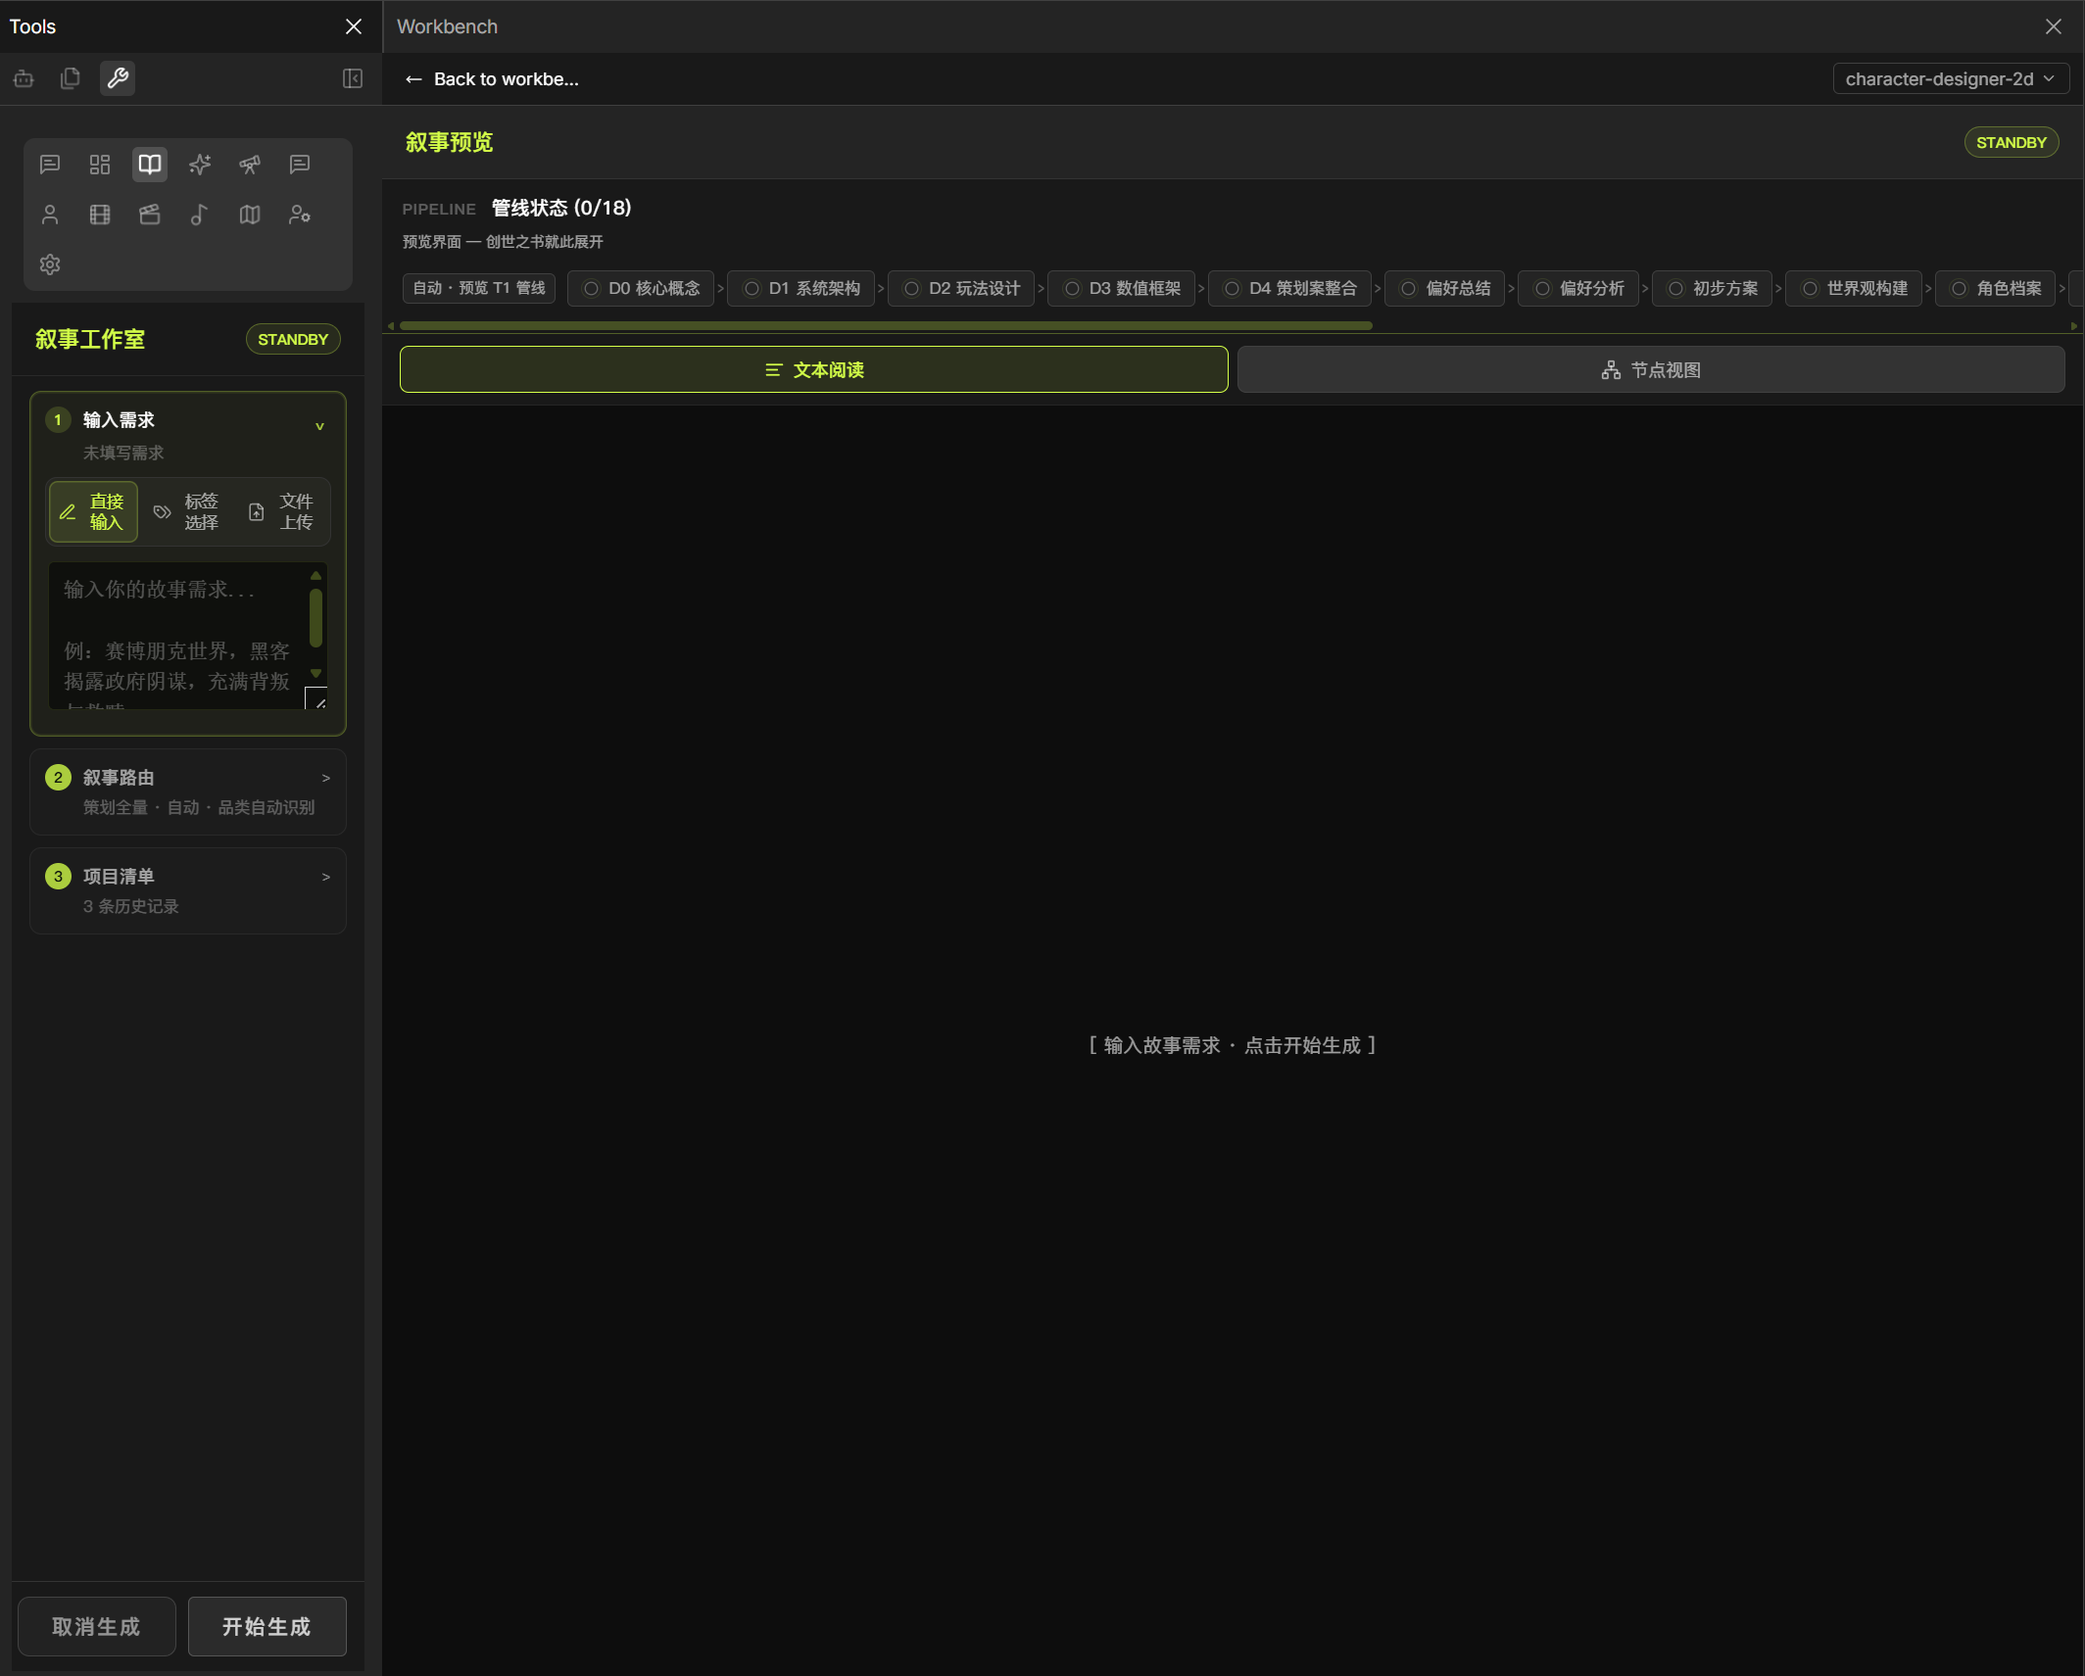
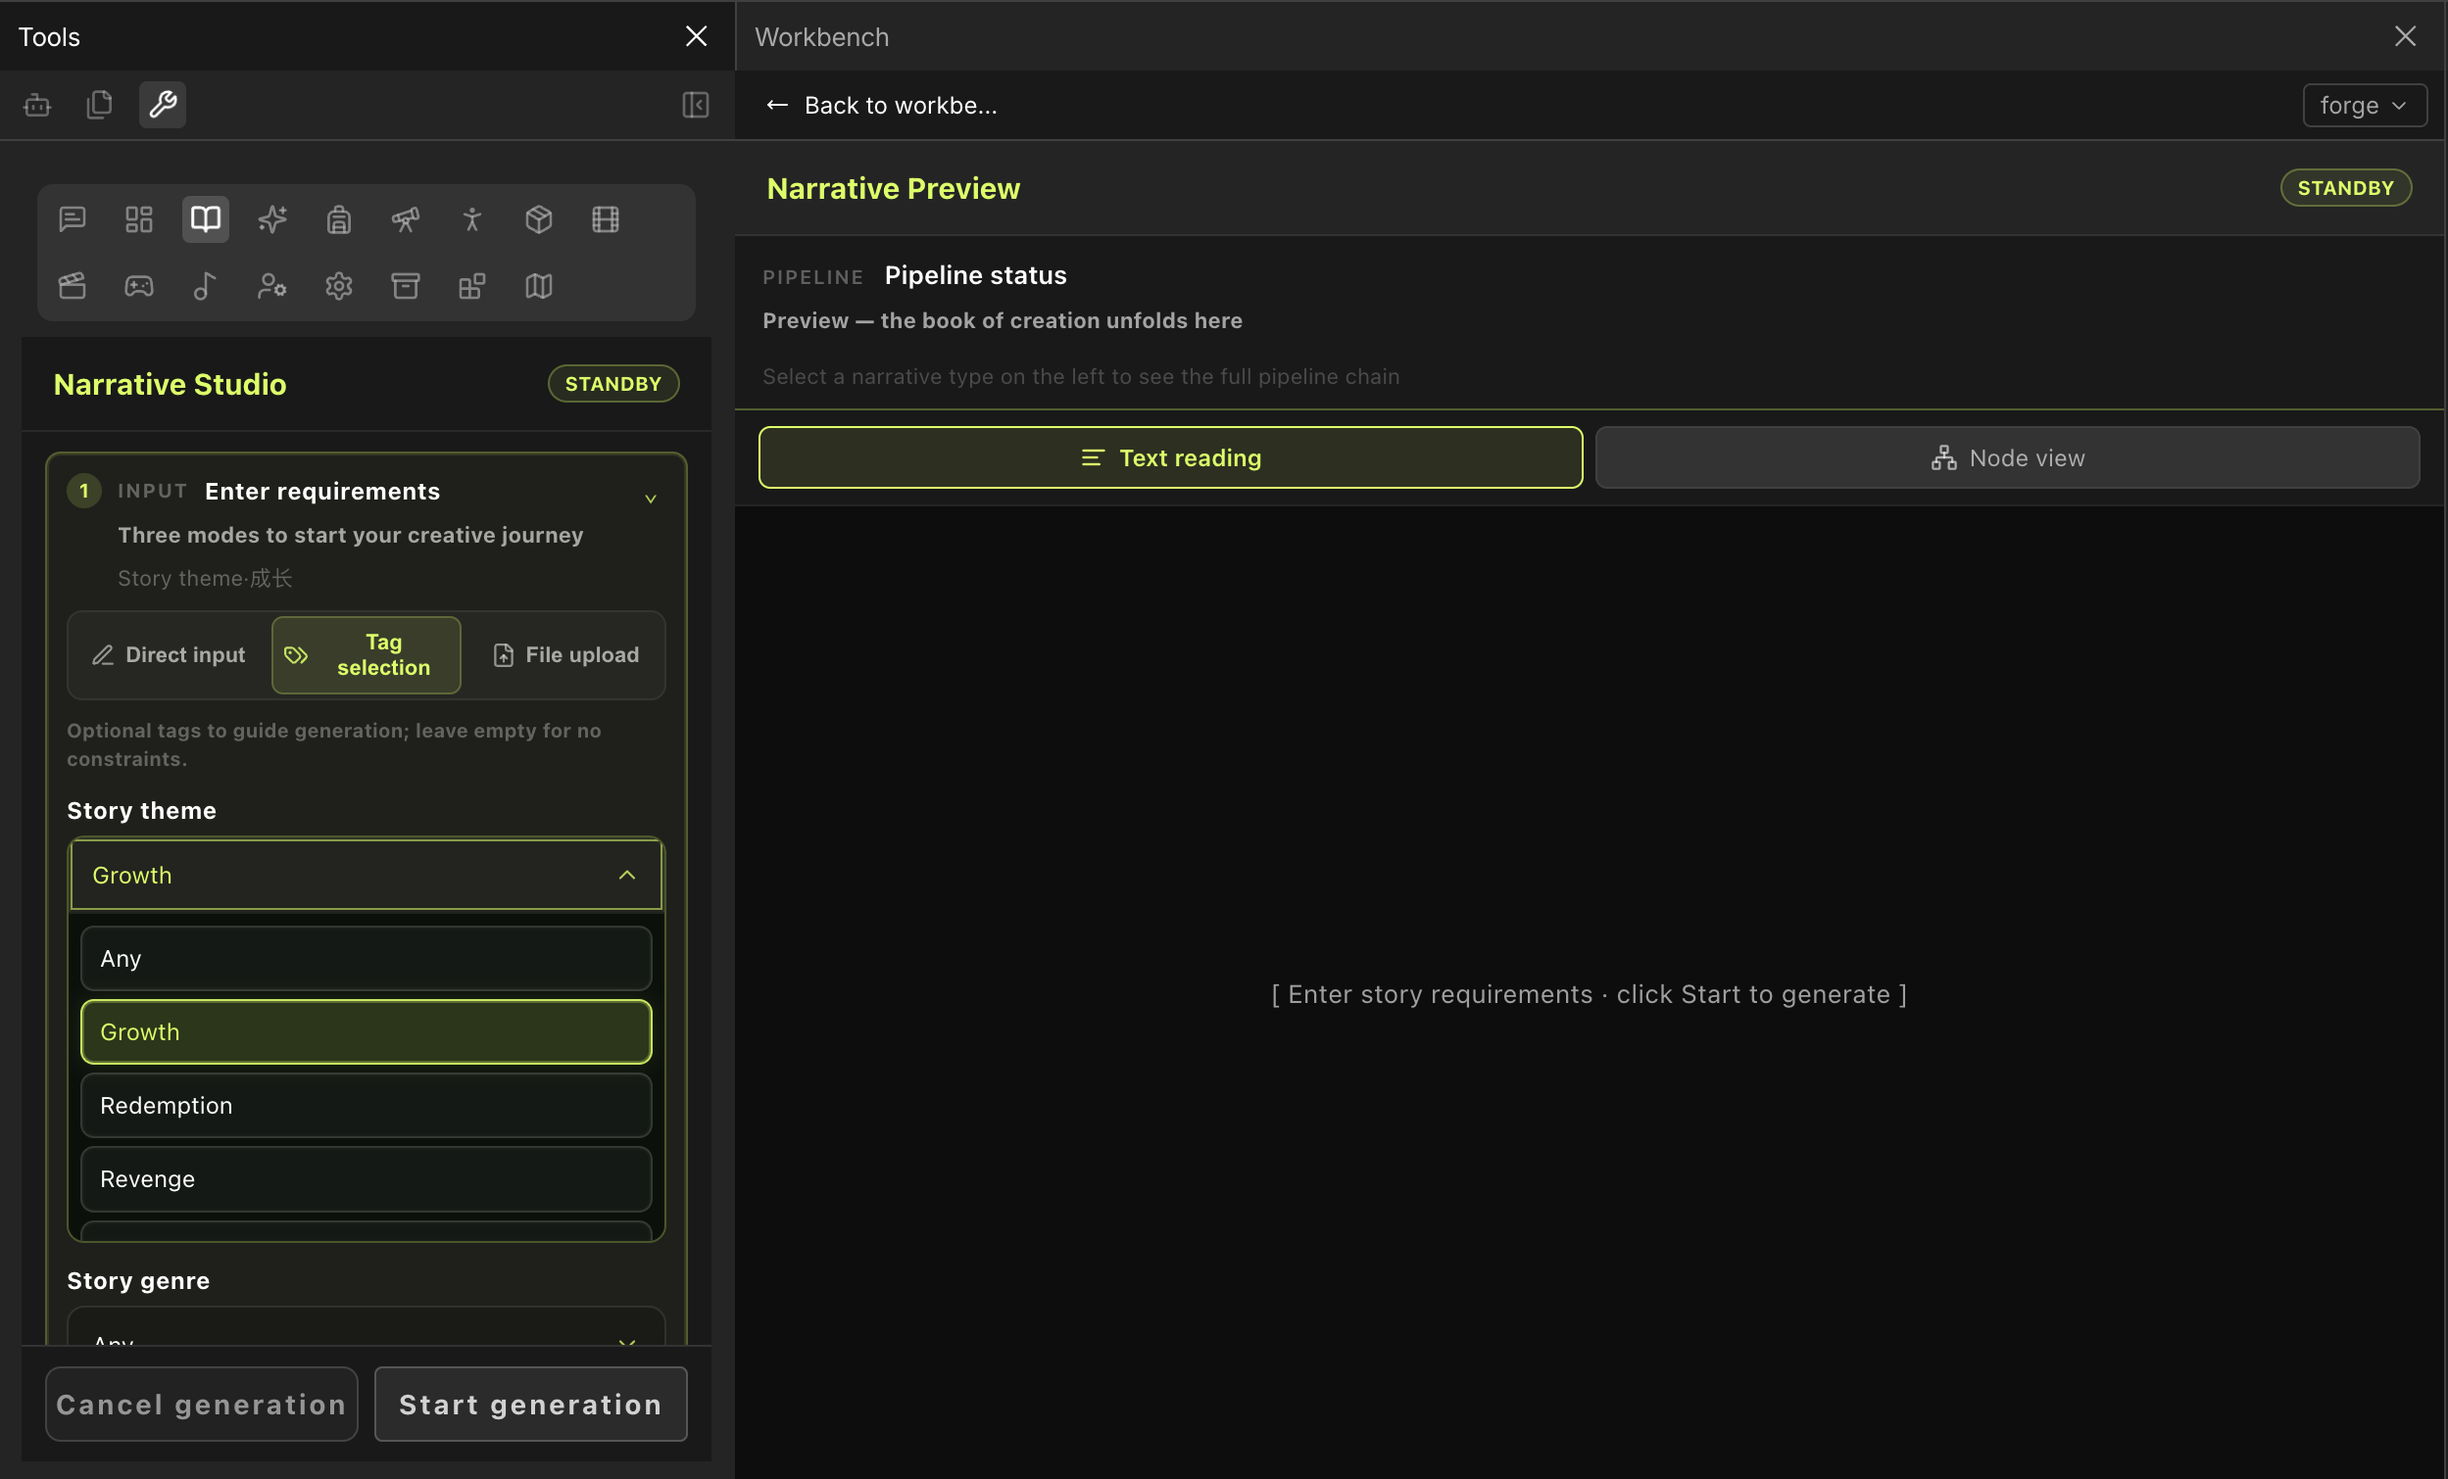
Mirror built site from source

diff --git a/assets/marketplace/app.js b/assets/marketplace/app.js
@@ -51,7 +51,7 @@
     function esc(s) { return String(s == null ? "" : s).replace(/[&<>"]/g, function (c) { return { "&": "&amp;", "<": "&lt;", ">": "&gt;", "\"": "&quot;" }[c]; }); }
 
     // ── studio screenshot previews (runtime manifest + gallery + lightbox) ──
-    var PREVIEW_CACHE_VERSION = "studio-previews-26";
+    var PREVIEW_CACHE_VERSION = "studio-previews-27";
 
     function resolvePreviewAssetUrl(path) {
       if (!path) return path;

diff --git a/ja/examples/index.html b/ja/examples/index.html
@@ -175,7 +175,7 @@
           <span class="ex-item-tags"><span class="tag">physics</span><span class="tag">rapier</span></span>
         </a>
     </nav>
-    <div class="ex-stamp">エンジンに合わせて v0.0.0 · <code>a3cb294fdd</code></div>
+
   </aside>
   <section class="ex-view">
     <div class="ex-bar">

diff --git a/de/examples/index.html b/de/examples/index.html
@@ -175,7 +175,7 @@
           <span class="ex-item-tags"><span class="tag">physics</span><span class="tag">rapier</span></span>
         </a>
     </nav>
-    <div class="ex-stamp">auf den Motor ausgerichtet v0.0.0 · <code>a3cb294fdd</code></div>
+
   </aside>
   <section class="ex-view">
     <div class="ex-bar">

diff --git a/fr/examples/index.html b/fr/examples/index.html
@@ -175,7 +175,7 @@
           <span class="ex-item-tags"><span class="tag">physics</span><span class="tag">rapier</span></span>
         </a>
     </nav>
-    <div class="ex-stamp">aligné sur le moteur v0.0.0 · <code>a3cb294fdd</code></div>
+
   </aside>
   <section class="ex-view">
     <div class="ex-bar">

diff --git a/es/examples/index.html b/es/examples/index.html
@@ -175,7 +175,7 @@
           <span class="ex-item-tags"><span class="tag">physics</span><span class="tag">rapier</span></span>
         </a>
     </nav>
-    <div class="ex-stamp">alineado al motor v0.0.0 · <code>a3cb294fdd</code></div>
+
   </aside>
   <section class="ex-view">
     <div class="ex-bar">

diff --git a/pt/examples/index.html b/pt/examples/index.html
@@ -175,7 +175,7 @@
           <span class="ex-item-tags"><span class="tag">physics</span><span class="tag">rapier</span></span>
         </a>
     </nav>
-    <div class="ex-stamp">alinhado ao motor v0.0.0 · <code>a3cb294fdd</code></div>
+
   </aside>
   <section class="ex-view">
     <div class="ex-bar">

diff --git a/ko/examples/index.html b/ko/examples/index.html
@@ -175,7 +175,7 @@
           <span class="ex-item-tags"><span class="tag">physics</span><span class="tag">rapier</span></span>
         </a>
     </nav>
-    <div class="ex-stamp">엔진에 정렬 v0.0.0 · <code>a3cb294fdd</code></div>
+
   </aside>
   <section class="ex-view">
     <div class="ex-bar">

diff --git a/zh/examples/index.html b/zh/examples/index.html
@@ -175,7 +175,7 @@
           <span class="ex-item-tags"><span class="tag">physics</span><span class="tag">rapier</span></span>
         </a>
     </nav>
-    <div class="ex-stamp">对齐引擎 v0.0.0 · <code>a3cb294fdd</code></div>
+
   </aside>
   <section class="ex-view">
     <div class="ex-bar">

diff --git a/de/marketplace/index.html b/de/marketplace/index.html
@@ -699,6 +699,6 @@
 
 <script src="/assets/site.js?v=34bdc073"></script>
 <script src="/assets/marketplace/marketplace-card-icons.js?v=fc96d964"></script>
-<script src="/assets/marketplace/app.js?v=310e9d7b"></script>
+<script src="/assets/marketplace/app.js?v=463174c4"></script>
 </body>
 </html>

diff --git a/es/marketplace/index.html b/es/marketplace/index.html
@@ -699,6 +699,6 @@
 
 <script src="/assets/site.js?v=34bdc073"></script>
 <script src="/assets/marketplace/marketplace-card-icons.js?v=fc96d964"></script>
-<script src="/assets/marketplace/app.js?v=310e9d7b"></script>
+<script src="/assets/marketplace/app.js?v=463174c4"></script>
 </body>
 </html>

diff --git a/fr/marketplace/index.html b/fr/marketplace/index.html
@@ -699,6 +699,6 @@
 
 <script src="/assets/site.js?v=34bdc073"></script>
 <script src="/assets/marketplace/marketplace-card-icons.js?v=fc96d964"></script>
-<script src="/assets/marketplace/app.js?v=310e9d7b"></script>
+<script src="/assets/marketplace/app.js?v=463174c4"></script>
 </body>
 </html>

diff --git a/ja/marketplace/index.html b/ja/marketplace/index.html
@@ -699,6 +699,6 @@
 
 <script src="/assets/site.js?v=34bdc073"></script>
 <script src="/assets/marketplace/marketplace-card-icons.js?v=fc96d964"></script>
-<script src="/assets/marketplace/app.js?v=310e9d7b"></script>
+<script src="/assets/marketplace/app.js?v=463174c4"></script>
 </body>
 </html>
